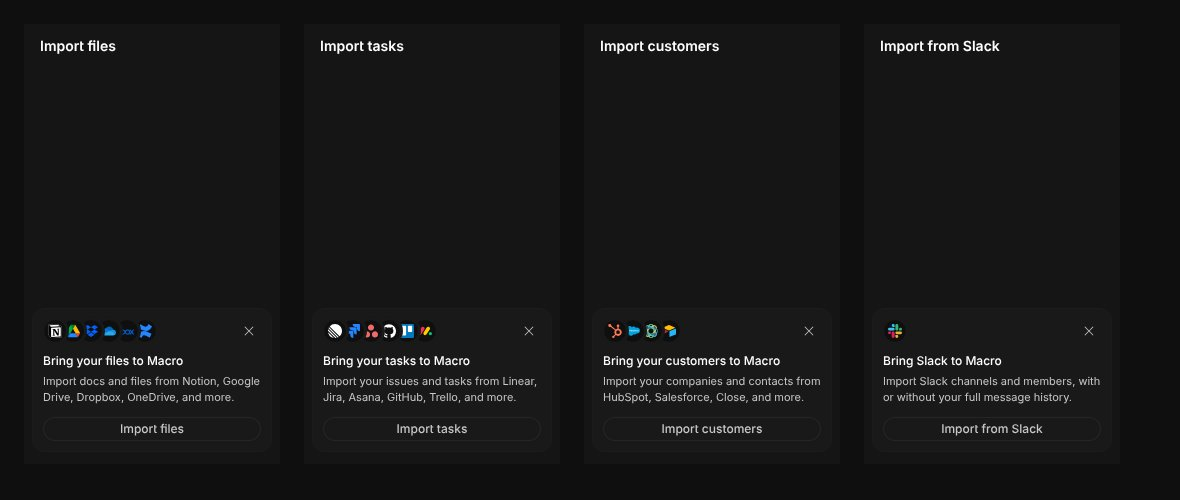
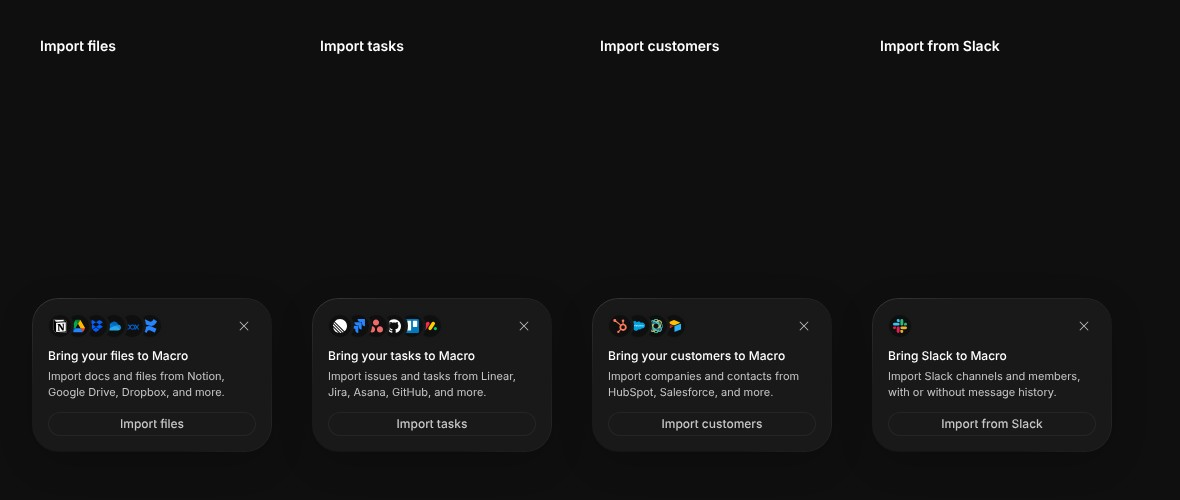
feat(sidebar-promotion): style setup cards like email message cards
Why: the cards should match the email message card: its rounding, soft
shadow, padding, and the glass rim in dark mode.

What: build the card on ComposerSurface with the message card's padding,
keeping the plain bordered card on touch. Shorten the calendar and import
pitches so they still fit in two lines at the wider padding. The browser
fixtures now apply the dark theme explicitly, since dark-mode styles key off
the theme attribute, and the review screenshots are recaptured.

Claude-Session: https://claude.ai/code/session_01WDqoDVt7oj7XvKTSTtyzYA

diff --git a/apps/web/src/features/connector-import/core/catalog.ts b/apps/web/src/features/connector-import/core/catalog.ts
@@ -29,7 +29,7 @@ export const IMPORT_CATEGORIES: Record<ImportCategory, ImportCategoryConfig> = {
     category: 'files',
     headline: 'Bring your files to Macro',
     pitch:
-      'Import docs and files from Notion, Google Drive, Dropbox, OneDrive, and more.',
+      'Import docs and files from Notion, Google Drive, Dropbox, and more.',
     action: 'Import files',
     dialogDescription:
       'Connect an app, then pick what to bring into your Drive.',
@@ -79,7 +79,7 @@ export const IMPORT_CATEGORIES: Record<ImportCategory, ImportCategoryConfig> = {
     category: 'tasks',
     headline: 'Bring your tasks to Macro',
     pitch:
-      'Import your issues and tasks from Linear, Jira, Asana, GitHub, Trello, and more.',
+      'Import issues and tasks from Linear, Jira, Asana, GitHub, and more.',
     action: 'Import tasks',
     dialogDescription: 'Connect an app, then pick which tasks to bring over.',
     items: 'issues and tasks',
@@ -127,8 +127,7 @@ export const IMPORT_CATEGORIES: Record<ImportCategory, ImportCategoryConfig> = {
   crm: {
     category: 'crm',
     headline: 'Bring your customers to Macro',
-    pitch:
-      'Import your companies and contacts from HubSpot, Salesforce, Close, and more.',
+    pitch: 'Import companies and contacts from HubSpot, Salesforce, and more.',
     action: 'Import customers',
     dialogDescription:
       'Connect an app, then bring its companies and contacts into your CRM.',
@@ -165,7 +164,7 @@ export const IMPORT_CATEGORIES: Record<ImportCategory, ImportCategoryConfig> = {
     category: 'channels',
     headline: 'Bring Slack to Macro',
     pitch:
-      'Import Slack channels and members, with or without your full message history.',
+      'Import Slack channels and members, with or without message history.',
     action: 'Import from Slack',
     dialogDescription:
       'Connect Slack to pick channels, or upload an export to bring history.',

diff --git a/apps/web/src/features/sidebar-promotion/components/promo-card.tsx b/apps/web/src/features/sidebar-promotion/components/promo-card.tsx
@@ -1,5 +1,6 @@
+import { isTouchDevice } from '@core/mobile/isTouchDevice';
 import XIcon from '@phosphor/x.svg';
-import { Button } from '@ui';
+import { Button, ComposerSurface, cn } from '@ui';
 import { Show } from 'solid-js';
 import { LogoStack, type PromotionLogo } from './logo-stack';
 
@@ -8,7 +9,11 @@ export type PromoAction = {
   onClick(trigger: HTMLButtonElement): void;
 };
 
-/** A dismissible sidebar prompt: logos, a headline, a pitch, and actions. */
+/**
+ * A dismissible sidebar prompt: logos, a headline, a pitch, and actions.
+ * Desktop shares the email message card's surface (rounding, soft shadow,
+ * dark rim); touch keeps a plain bordered card.
+ */
 export function PromoCard(props: {
   logos: readonly PromotionLogo[];
   headline: string;
@@ -21,8 +26,13 @@ export function PromoCard(props: {
   onDismiss(): void;
 }) {
   return (
-    <section
-      class="w-full rounded-xl border border-edge-muted bg-control p-2.5"
+    <ComposerSurface
+      as="div"
+      role="region"
+      class={cn(
+        'w-full p-4',
+        isTouchDevice() && 'rounded-xl border border-edge-muted bg-control'
+      )}
       aria-label={props.headline}
     >
       {/* Same-height row: the logos and the close glyph share one inset. */}
@@ -61,6 +71,6 @@ export function PromoCard(props: {
           )}
         </Show>
       </div>
-    </section>
+    </ComposerSurface>
   );
 }

diff --git a/apps/web/src/features/sidebar-promotion/core/promotions.ts b/apps/web/src/features/sidebar-promotion/core/promotions.ts
@@ -45,7 +45,7 @@ export const CALENDAR_ACCOUNTS_PROMOTION = {
   logos: [logo('Google Calendar', IconGoogleCalendar)],
   headline: 'Connect more calendars',
   pitch:
-    'Add another Google account to see work and personal calendars side by side.',
+    'Add another Google account to see work and personal calendars together.',
   action: 'Connect a calendar',
   /** Shown instead while one of your accounts lacks calendar access. */
   enableAction: 'Turn on calendar',

diff --git a/apps/web/src/features/connector-import/browser-test/import.tsx b/apps/web/src/features/connector-import/browser-test/import.tsx
@@ -192,8 +192,11 @@ function Fixture() {
   );
 }
 
-if (new URLSearchParams(location.search).get('theme') === 'light') {
-  applyTheme('Macro Light');
-}
+// Apply dark explicitly too: `dark-mode:` styles key off the theme attribute.
+applyTheme(
+  new URLSearchParams(location.search).get('theme') === 'light'
+    ? 'Macro Light'
+    : 'Macro Dark'
+);
 const root = document.getElementById('root');
 if (root) render(() => <Fixture />, root);

diff --git a/apps/web/src/features/sidebar-promotion/browser-test/promotions.tsx b/apps/web/src/features/sidebar-promotion/browser-test/promotions.tsx
@@ -76,8 +76,11 @@ function Fixture() {
   );
 }
 
-if (new URLSearchParams(location.search).get('theme') === 'light') {
-  applyTheme('Macro Light');
-}
+// Apply dark explicitly too: `dark-mode:` styles key off the theme attribute.
+applyTheme(
+  new URLSearchParams(location.search).get('theme') === 'light'
+    ? 'Macro Light'
+    : 'Macro Dark'
+);
 const root = document.getElementById('root');
 if (root) render(() => <Fixture />, root);

diff --git a/apps/web/src/features/sidebar-promotion/browser-test/promotions.browser.e2e.ts b/apps/web/src/features/sidebar-promotion/browser-test/promotions.browser.e2e.ts
@@ -28,7 +28,7 @@ test('keeps every pitch to two lines at the default sidebar width', async ({
   page,
 }) => {
   const lines = await page
-    .locator('section p')
+    .locator('[role=region] p')
     .evaluateAll((pitches) =>
       pitches.map((pitch) =>
         Math.round(

diff --git a/docs/agent-guide/setup-cards.md b/docs/agent-guide/setup-cards.md
@@ -43,7 +43,9 @@ backend.
 ## Sidebar setup cards
 
 The same flag puts a dismissible card (`src/features/sidebar-promotion`) at
-the bottom of three more sidebars.
+the bottom of three more sidebars. On desktop every card, import cards
+included, uses the email message card's surface (`ComposerSurface`). Calendar's
+card sits above **Settings**, outside the scrolling list.
 
 - **Home** (desktop): "Make Macro your home base". **Connect tools** opens
   Settings → Connections; **Invite team** opens Settings → Team. **Invite
